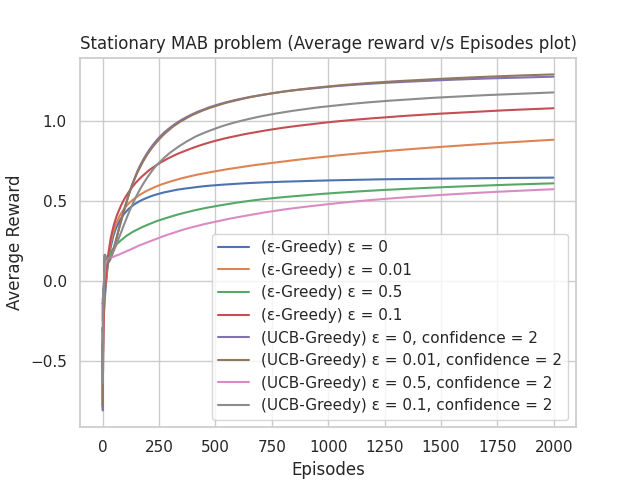
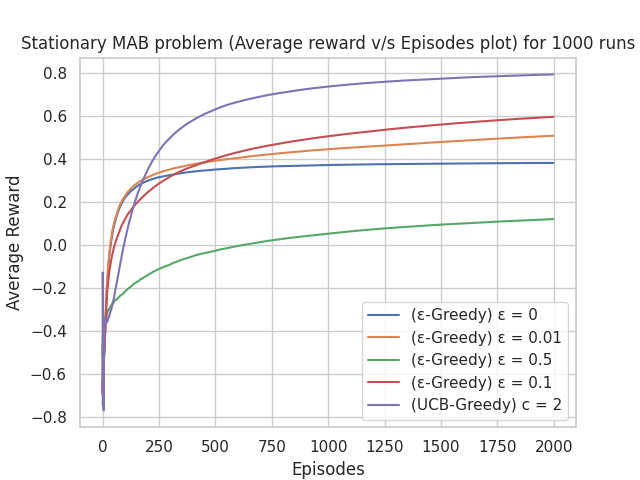
Corrected UCB agent

diff --git a/demos/stationary_MAB_problem.py b/demos/stationary_MAB_problem.py
@@ -11,11 +11,11 @@ from tabular.upper_confidence_bound_agent import UpperConfidenceBoundAgent
 sns.set(color_codes=True, style="whitegrid")
 
 
-def train(env, agent, epsilon, init_bias, episodes):
+def train(env, agent, exploration_parameter, init_bias, episodes):
 	''' Function trains the ε-Greedy agent on the environment '''
 
 	# Initial parameters
-	agent.reset_memory(epsilon, init_bias)
+	agent.reset_memory(exploration_parameter, init_bias)
 	reward = 0
 	prev_state = env.reset()
 	done = False
@@ -63,45 +63,45 @@ env.seed(0)
 # Instantiating Agent 
 epsilon_greedy_agent = EpsilonGreedyAgent(env.action_space, env.k, None, None)
 ucb_greedy_agent = UpperConfidenceBoundAgent(env.action_space, 
-					env.k, None, None, 2)
+					env.k, None, None) 
 
 # Initializing Parameters
 epsilons = [0, 0.01, 0.5, 0.1]
 init_bias = 0
 episodes = 2000
-num_runs = 1
+num_runs = 1000
+ucb_confidence = 2
 
 
 # Running multiple runs of training for multiple epsilon values
 avg_rewards_for_epsilons_over_num_runs_epsilon_greedy = []
-avg_rewards_for_epsilons_over_num_runs_ucb_greedy = []
+avg_rewards_for_over_num_runs_ucb_greedy = []
 
 for i in range(num_runs):
 	print("Run:" + str(i+1))
 	avg_reward_for_epsilons_epsilon_greedy = train_for_different_epsilons(
 											env, epsilon_greedy_agent, 
 											init_bias, episodes,epsilons)[0]
-	avg_reward_for_epsilons_ucb_greedy = train_for_different_epsilons(env, 
-										ucb_greedy_agent, init_bias, 
-										episodes,epsilons)[0]
+	avg_reward_for_ucb_greedy = train(env, ucb_greedy_agent, ucb_confidence, 
+										init_bias, episodes)[0]
 	avg_rewards_for_epsilons_over_num_runs_epsilon_greedy.append(
 							avg_reward_for_epsilons_epsilon_greedy)
-	avg_rewards_for_epsilons_over_num_runs_ucb_greedy.append(
-							avg_reward_for_epsilons_ucb_greedy)
-
+	avg_rewards_for_over_num_runs_ucb_greedy.append(
+							avg_reward_for_ucb_greedy)
 
 
 avg_rewards_for_epsilons_over_num_runs_epsilon_greedy = np.array(
 						avg_rewards_for_epsilons_over_num_runs_epsilon_greedy)
-avg_rewards_for_epsilons_over_num_runs_ucb_greedy = np.array(
-							avg_rewards_for_epsilons_over_num_runs_ucb_greedy)
+avg_rewards_for_over_num_runs_ucb_greedy = np.array(
+							avg_rewards_for_over_num_runs_ucb_greedy)
 
 
 # Final Averages
 avg_of_avg_rewards_for_epsilons_over_num_runs_epsilon_greedy = np.mean(
 				avg_rewards_for_epsilons_over_num_runs_epsilon_greedy, axis=0)
-avg_of_avg_rewards_for_epsilons_over_num_runs_ucb_greedy = np.mean(
-					avg_rewards_for_epsilons_over_num_runs_ucb_greedy, axis=0)
+
+avg_rewards_for_over_num_runs_ucb_greedy = np.mean(
+					avg_rewards_for_over_num_runs_ucb_greedy, axis=0).reshape(episodes,1)
 
 
 # Visualisation of results
@@ -112,27 +112,11 @@ plt.title("Stationary MAB problem (Average reward v/s Episodes plot) for "
 plt.xlabel("Episodes")
 plt.ylabel("Average Reward")
 
-for i in range(len(avg_of_avg_rewards_for_epsilons_over_num_runs_epsilon_greedy)
-				):
+for i in range(len(epsilons)):
 	plt.plot(avg_of_avg_rewards_for_epsilons_over_num_runs_epsilon_greedy[i],
 	 		label = "(ε-Greedy) ε = " + str(epsilons[i]))
 	plt.legend(loc = "lower right")
-for i in range(len(avg_of_avg_rewards_for_epsilons_over_num_runs_ucb_greedy)):
-	plt.plot(avg_of_avg_rewards_for_epsilons_over_num_runs_ucb_greedy[i], 
-			label = "(UCB-Greedy) ε = " + str(epsilons[i]) + ", c = 2")
-	plt.legend(loc = "lower right") 
+
+plt.plot(avg_rewards_for_over_num_runs_ucb_greedy, label = "(UCB-Greedy) c = 2")
+plt.legend(loc = "lower right") 
 plt.show()
-
-
-
-
-
-
-
-
-
-
-
-
-
-

diff --git a/agents/tabular/upper_confidence_bound_agent.py b/agents/tabular/upper_confidence_bound_agent.py
@@ -1,15 +1,20 @@
 import numpy as np
-from tabular.epsilon_greedy_agent import EpsilonGreedyAgent
+from tabular.agent import Agent
 
-class UpperConfidenceBoundAgent(EpsilonGreedyAgent):
+class UpperConfidenceBoundAgent(Agent):
 	""" 
 	Implementation of Upper Confidence Bound Agent class
 	Algorithm: Agent selects action based on Upper Confidence Bound (UCB) method
 	"""
 
-	def __init__(self, action_space, n_actions, epsilon=0.1, init_bias=0, confidence = 3):
-		self.confidence = confidence
-		EpsilonGreedyAgent.__init__(self, action_space,n_actions, epsilon, init_bias)
+	def __init__(self, action_space, n_actions, init_bias=0, confidence = 2):
+		
+		Agent.__init__(self, action_space)
+		self.n_actions = n_actions
+		self.init_bias = init_bias # initial bias, provide greater values to encourage exploration at begining
+		self.confidence = confidence # confidence > 0, controls the degree of exploration
+		self.Q_actions = [self.init_bias for i in range(self.n_actions)]	# stores action value estimates
+		self.N_actions = [0 for i in range(self.n_actions)]	# stores number of time each action taken until current timestep
 
 
 	def get_uncertaininty(self,timestep, action):
@@ -21,6 +26,21 @@ class UpperConfidenceBoundAgent(EpsilonGreedyAgent):
 		# UCB Method(greedy): choose action with max estimated action value
 		timestep = len(self.N_actions)
 		values = np.array([self.Q_actions[i]+self.get_uncertaininty(timestep,i) for i in range(len(self.Q_actions))])
-		return(np.argmax(values))	
+		return(np.argmax(values))
+
+	def act(self, state, reward, done):
+		# Return chosen action 
+		action = self.exploit()
+		self.N_actions[action] += 1
+		self.Q_actions[action] += (reward - self.Q_actions[action]) / float(self.N_actions[action])  
+		return(action)
+
+	def reset_memory(self, confidence, init_bias):
+		# Reset memory & set confidence level & bias values
+		self.confidence = confidence
+		self.init_bias = init_bias
+		self.Q_actions = [self.init_bias for i in range(self.n_actions)]
+		self.N_actions = [0 for i in range(self.n_actions)]
+	
 
 

diff --git a/inferences/MAB_reward_dist_analysis.py b/inferences/MAB_reward_dist_analysis.py
@@ -1,0 +1,39 @@
+import gym
+import gym_karmedbandits
+import numpy as np
+import matplotlib.pyplot as plt
+import seaborn as sns
+
+
+
+sns.set(color_codes=True, style="whitegrid")
+
+# Initialize gym Environment
+env = gym.make("KArmedBandits-v0")
+env.reset()
+
+global_reward_list = []
+episodes = 1000
+n_actions = 10
+
+# Reinforcement Learning Training 
+for action in range(n_actions):
+	local_reward_list = []
+	for episode in range(episodes):
+		while True:
+			next_state, reward, done, _ = env.step(action)
+			if done:
+				break
+		local_reward_list.append(reward)
+	
+	env.close()
+	global_reward_list.append(local_reward_list)
+
+
+# Plotting the reward distributions of k actions
+plt.title("Reward distributions of " + str(n_actions) + " actions for MAB problem")
+plt.xlabel("Action")
+plt.ylabel("Reward Distribution")
+sns.violinplot(data=np.array(global_reward_list).T)
+plt.savefig("MAB_reward_dist_plot.jpg")
+plt.show()
